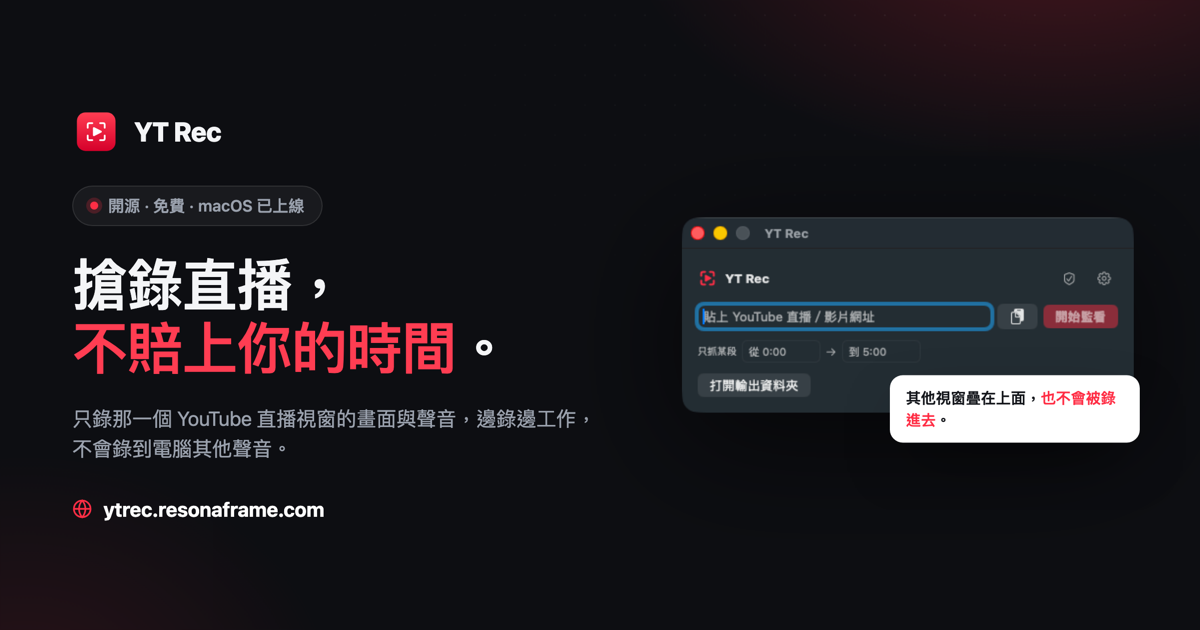
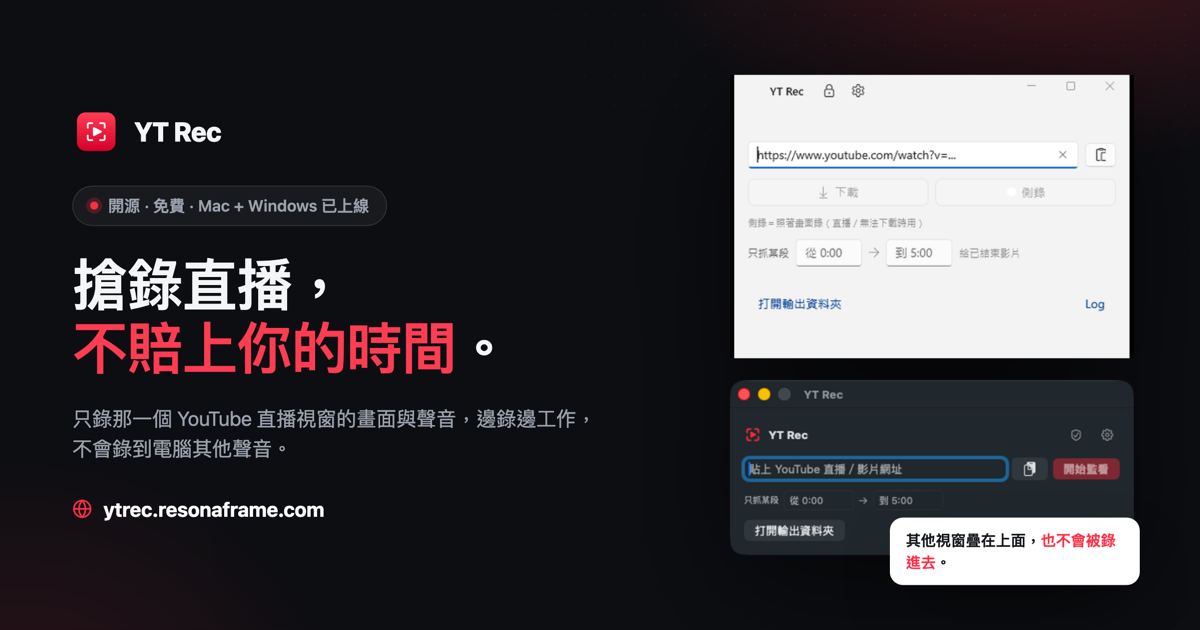
feat(web): give Windows + Mac downloads equal weight; dual-platform hero & share image
Both hero download buttons are now the same red/filled style (was Mac-primary + Windows-outline).
Hero mock and OG card show BOTH apps (Windows + macOS), not a Mac-only screenshot; OG badge and
JSON-LD screenshot updated to match. No more Mac-first emphasis.

Changed region(s): [[0.555, 0.0905, 0.9558, 0.9349], [0.1542, 0.3016, 0.3083, 0.3619]]

diff --git a/web/index.html b/web/index.html
@@ -53,7 +53,7 @@
       "datePublished": "2026-06-22",
       "inLanguage": "zh-Hant",
       "description": "YT Rec（YT快錄）是一個 macOS／Windows 桌面工具，只錄下單一 YouTube 直播視窗的畫面與聲音，讓你邊錄邊用電腦工作，而且不會錄到其他 App 的聲音。直播或一般 YouTube 影片都能錄，特別適合搶錄超長或進行中的直播。",
-      "screenshot": "https://ytrec.resonaframe.com/app-macos.png",
+      "screenshot": "https://ytrec.resonaframe.com/app-both.png",
       "image": "https://ytrec.resonaframe.com/og.png",
       "license": "https://www.apache.org/licenses/LICENSE-2.0",
       "isAccessibleForFree": true,
@@ -371,7 +371,7 @@
           <svg viewBox="0 0 24 24" fill="currentColor" aria-hidden="true"><path d="M16.5 2.6c.1 1-.3 2-1 2.8-.7.8-1.7 1.4-2.7 1.3-.1-1 .4-2 1-2.7.7-.8 1.8-1.4 2.7-1.4zM19 17.3c-.5 1.1-.7 1.6-1.3 2.6-.9 1.4-2.1 3.1-3.7 3.1-1.4 0-1.7-.9-3.6-.9s-2.3.9-3.6.9c-1.6 0-2.8-1.6-3.6-3-2.4-3.7-2.6-8.1-1.2-10.4 1-1.7 2.6-2.7 4.1-2.7 1.5 0 2.5 1 3.7 1 1.2 0 1.9-1 3.7-1 1.3 0 2.7.7 3.7 2-3.3 1.8-2.7 6.4 1.4 8.4z"/></svg>
           <span data-i18n="hero.ctaMac">下載 Mac</span>
         </a>
-        <a class="btn btn-outline" href="https://github.com/weibing078/yt-rec/releases/latest/download/YT-Rec-Setup.exe">
+        <a class="btn btn-primary" href="https://github.com/weibing078/yt-rec/releases/latest/download/YT-Rec-Setup.exe">
           <svg viewBox="0 0 24 24" fill="currentColor" aria-hidden="true"><path d="M3 5.6 10.3 4.6v6.8H3zM10.3 12.6v6.8L3 18.4v-5.8zM11.4 4.4 21 3v8.4h-9.6zM21 12.6V21l-9.6-1.4v-7z"/></svg>
           <span data-i18n="hero.ctaWin">下載 Windows</span>
         </a>
@@ -384,7 +384,7 @@
     </div>
 
     <div class="mock">
-      <img class="mock-shot" src="app-macos.png" width="460" height="199" alt="YT Rec 的 macOS 主畫面：貼上 YouTube 直播或影片網址，按「開始監看」即可單獨錄下那個視窗。">
+      <img class="mock-shot" src="app-both.png" width="480" height="571" alt="YT Rec 同時支援 Windows 與 macOS：上方是 Windows 版主畫面、下方是 macOS 版，貼上 YouTube 直播或影片網址即可單獨錄下那個視窗。">
       <div class="mock-callout" data-i18n="hero.callout">其他視窗疊在上面，<b>也不會被錄進去</b>。</div>
     </div>
   </div>

diff --git a/web/og.html b/web/og.html
@@ -30,7 +30,7 @@
   .url{display:inline-flex;align-items:center;gap:11px;font-size:20px;font-weight:700;color:#fff}
   .url svg{width:20px;height:20px;color:#FF2E45}
   .right{position:absolute;right:66px;top:50%;transform:translateY(-50%);z-index:2}
-  .shot{width:452px;height:auto;display:block;filter:drop-shadow(0 30px 62px rgba(0,0,0,.62))}
+  .shot{width:404px;height:auto;display:block;filter:drop-shadow(0 30px 62px rgba(0,0,0,.62))}
   .callout{position:absolute;right:-6px;bottom:-30px;background:#fff;color:#15171C;font-size:15px;font-weight:700;
     padding:12px 16px;border-radius:13px;box-shadow:0 24px 60px -20px rgba(0,0,0,.7);max-width:250px;line-height:1.45}
   .callout b{color:#FF2E45}
@@ -43,13 +43,13 @@
         <svg class="mark" viewBox="0 0 1024 1024" xmlns="http://www.w3.org/2000/svg"><defs><linearGradient id="g" x1="0" y1="0" x2="0" y2="1"><stop offset="0" stop-color="#FF3D52"/><stop offset="1" stop-color="#D5002A"/></linearGradient></defs><rect x="100" y="100" width="824" height="824" rx="185" fill="url(#g)"/><g fill="none" stroke="#fff" stroke-width="37" stroke-linecap="round" stroke-linejoin="round"><path d="M330.7 429.6 L330.7 363.7 Q330.7 330.7 363.7 330.7 L429.6 330.7"/><path d="M594.4 330.7 L660.3 330.7 Q693.3 330.7 693.3 363.7 L693.3 429.6"/><path d="M693.3 594.4 L693.3 660.3 Q693.3 693.3 660.3 693.3 L594.4 693.3"/><path d="M429.6 693.3 L363.7 693.3 Q330.7 693.3 330.7 660.3 L330.7 594.4"/></g><path d="M462.6 437.8 L462.6 586.2 L610.9 512 Z" fill="#fff" stroke="#fff" stroke-width="41" stroke-linejoin="round" stroke-linecap="round"/></svg>
         <span class="name">YT Rec</span>
       </div>
-      <span class="badge"><span class="dot"></span>開源 · 免費 · macOS 已上線</span>
+      <span class="badge"><span class="dot"></span>開源 · 免費 · Mac + Windows 已上線</span>
       <h1>搶錄直播，<br><span class="hl">不賠上你的時間</span>。</h1>
       <p class="sub">只錄那一個 YouTube 直播視窗的畫面與聲音，邊錄邊工作，不會錄到電腦其他聲音。</p>
       <span class="url"><svg viewBox="0 0 24 24" fill="none" stroke="currentColor" stroke-width="2"><circle cx="12" cy="12" r="10"/><path d="M2 12h20M12 2a15 15 0 0 1 0 20a15 15 0 0 1 0-20z"/></svg>ytrec.resonaframe.com</span>
     </div>
     <div class="right">
-      <img class="shot" src="app-macos.png" alt="">
+      <img class="shot" src="app-both.png" alt="">
       <div class="callout">其他視窗疊在上面，<b>也不會被錄進去</b>。</div>
     </div>
   </div>